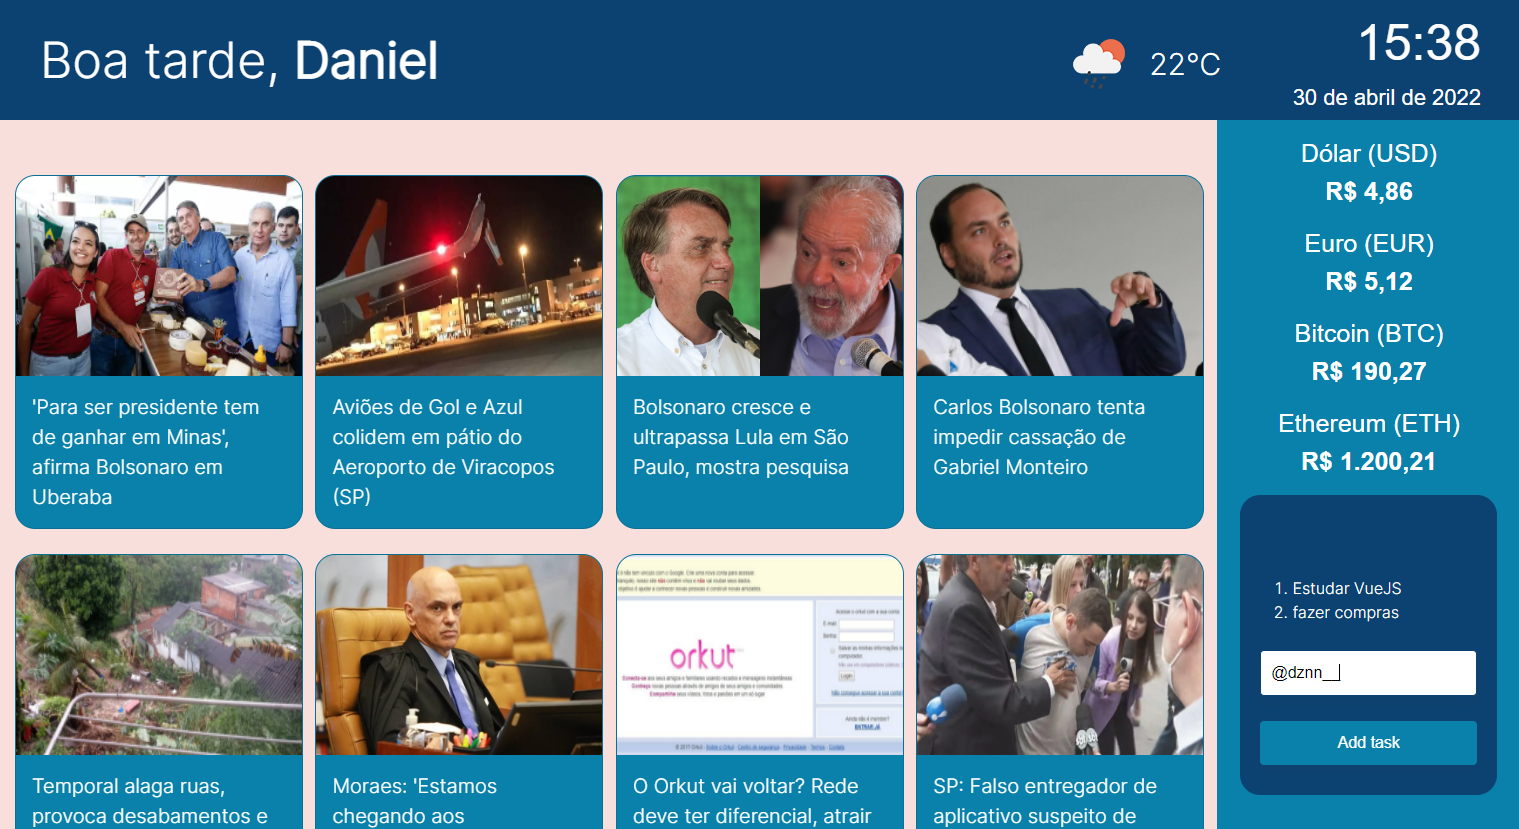
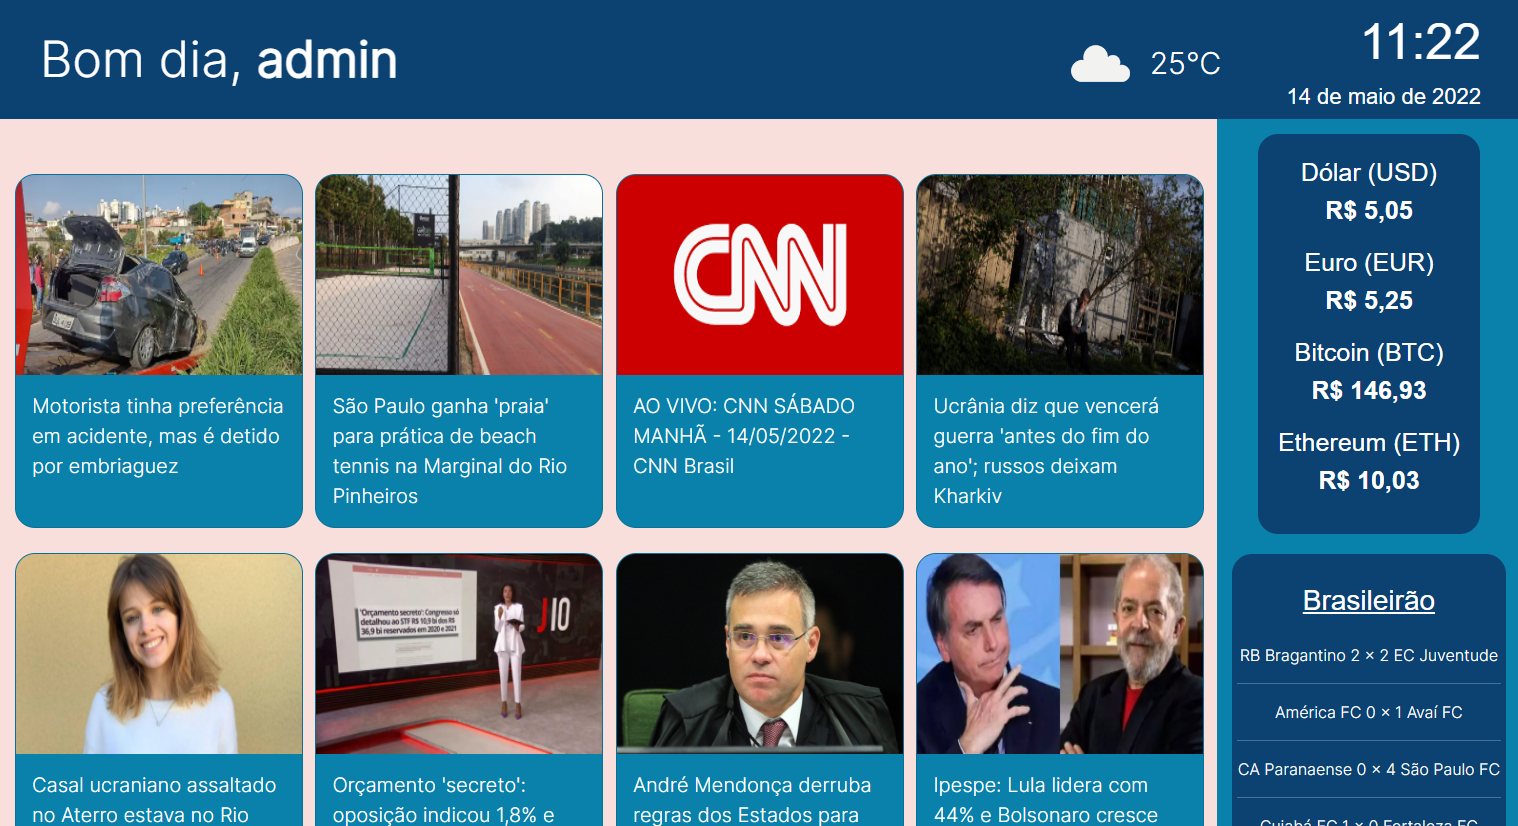
fix image

diff --git a/src/components/News.vue b/src/components/News.vue
@@ -2,7 +2,7 @@
       <div v-if="news" class="container">
         <div v-for="(news, index) in news" :key="index" class="card" style="width: 18rem;">
             <a :href="news.url" target="_blank">
-                <img :src="news.urlToImage" :alt="news.title" class="card-img-top">
+                <img :src="news.urlToImage == null ? 'https://raw.githubusercontent.com/danvinicius/raven/master/src/assets/cnn.png' : news.urlToImage" :alt="news.title" class="card-img-top">
             <div class="card-body">
                 <p class="card-text" >{{news.title}}</p>
             </div>
